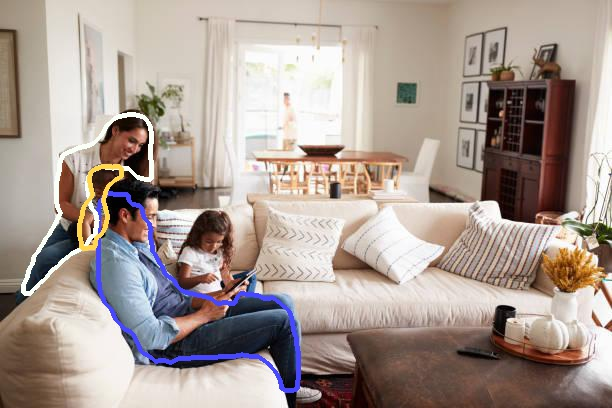
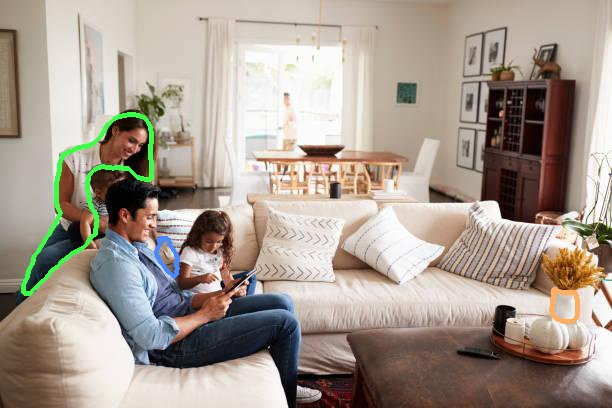
added functionality to choose preferred classes and updated apt file

diff --git a/instance.py b/instance.py
@@ -1,4 +1,3 @@
-import cv2
 import numpy as np
 from json import JSONEncoder
 import random
@@ -7,7 +6,7 @@ import cv2
 from cffi.backend_ctypes import xrange
 from pixellib.mask_rcnn import MaskRCNN
 from pixellib.config import Config
-import time
+
 
 
 class configuration(Config):
@@ -40,9 +39,7 @@ class instance_segmentation():
         # Run detection
         if verbose is not None:
             print("Processing image...")
-        start = time.process_time()
         results = self.model.detect([new_img])
-        print(time.process_time() - start)
 
         coco_config.class_names = ['BG', 'person', 'bicycle', 'car', 'motorcycle', 'airplane',
                                    'bus', 'train', 'truck', 'boat', 'traffic light',
@@ -120,33 +117,24 @@ def get_masks_of_preferred_class(masks, classes, class_ids, preferred_classes, n
     indices_preferred_classes = []
     indices_preferred_masks = []
 
-    print(preferred_classes)
+    print("recognized classes : ", class_ids)
 
     for i in range(len(preferred_classes)):
         try:
-            class_id = classes.index(preferred_classes[i])
-        except  ValueError:
+            indices_preferred_classes.append(classes.index(preferred_classes[i]))
+        except ValueError:
             print("Class ", preferred_classes[i], "couldn't be found in class array.")
 
-        else:
-            try:
-                print(class_ids)
-                indices_preferred_classes.append(class_ids.tolist().index(class_id))
 
-            except ValueError:
-                print("Class ", i, "couldn't be found in class array.")
-
-        print(indices_preferred_masks)
 
     # --- for every preferred class ---
     for j in range(len(indices_preferred_classes)):
-
         # --- set found_index true (init) ---
         last_found_index = 0
         start_search_index = 0
 
         # --- as long as no index was found ---
-        while len(indices_preferred_masks) < n_instances:
+        while len(indices_preferred_masks) <= n_instances:
             # --- try to find a mask of preferred class ---
             if last_found_index == 0 and start_search_index == 0:
                 start_search_index = 0
@@ -166,10 +154,11 @@ def get_masks_of_preferred_class(masks, classes, class_ids, preferred_classes, n
             else:
                 print("Class with id ", indices_preferred_classes[j], " found.")
 
-    # --- check if there are less than max. 3 masks. if so, fill list with random masks ---
-    if len(indices_preferred_masks) < n_instances:
+    # --- check if there are less than max. n_instances. if so, fill list with random masks ---
+
+    if len(indices_preferred_masks) <= n_instances:
         # --- for every missing mask index ---
-        for k in range(3 - len(indices_preferred_masks)):
+        for k in range(n_instances - len(indices_preferred_masks)):
             search_for_index = True
 
             # --- search for an index that is not already in list ---
@@ -187,10 +176,8 @@ def get_masks_of_preferred_class(masks, classes, class_ids, preferred_classes, n
                     search_for_index = False
 
     masks_list = []
-
     for l in range(len(indices_preferred_masks)):
         masks_list.append(masks[:, :, indices_preferred_masks[l]])
 
-    print("indices_preferred_masks", indices_preferred_masks)
 
     return masks_list, indices_preferred_masks

diff --git a/app.py b/app.py
@@ -23,8 +23,8 @@ api = Api(app)
 class InstanceSegmentation(Resource):
     def post(self):
         if request.json:
-
             post_request = request.json['data'][0]
+
             # get base64 string of image from json request
             image = post_request['image']
 
@@ -36,17 +36,17 @@ class InstanceSegmentation(Resource):
             # save image
             img.save(INPUT_IMAGE)
 
-            preferred_classes = post_request['classes']
+            preferred_classes = request.json['data'][0]['classes']
             instance_segment_image = instance_segmentation()
             instance_segment_image.load_model(INSTANCE_MODEL)
 
-            #try:
-            image, box_coordinates, class_labels = instance_segment_image.segmentImage(INPUT_IMAGE,
+            try:
+                image, box_coordinates, class_labels = instance_segment_image.segmentImage(INPUT_IMAGE,
                                                                                            output_image_name=OUTPUT_IMAGE,
                                                                                            preferred_classes=preferred_classes)
-            #except Exception as e:
-                #return {"output_image": "", "box_coordinates": "",
-                        #"class_labels": "", "error": format(e)}
+            except Exception as e:
+                return {"output_image": "", "box_coordinates": "",
+                        "class_labels": "", "error": format(e)}
 
             with open(OUTPUT_IMAGE, "rb") as img_file:
                 # convert processed image to base64
